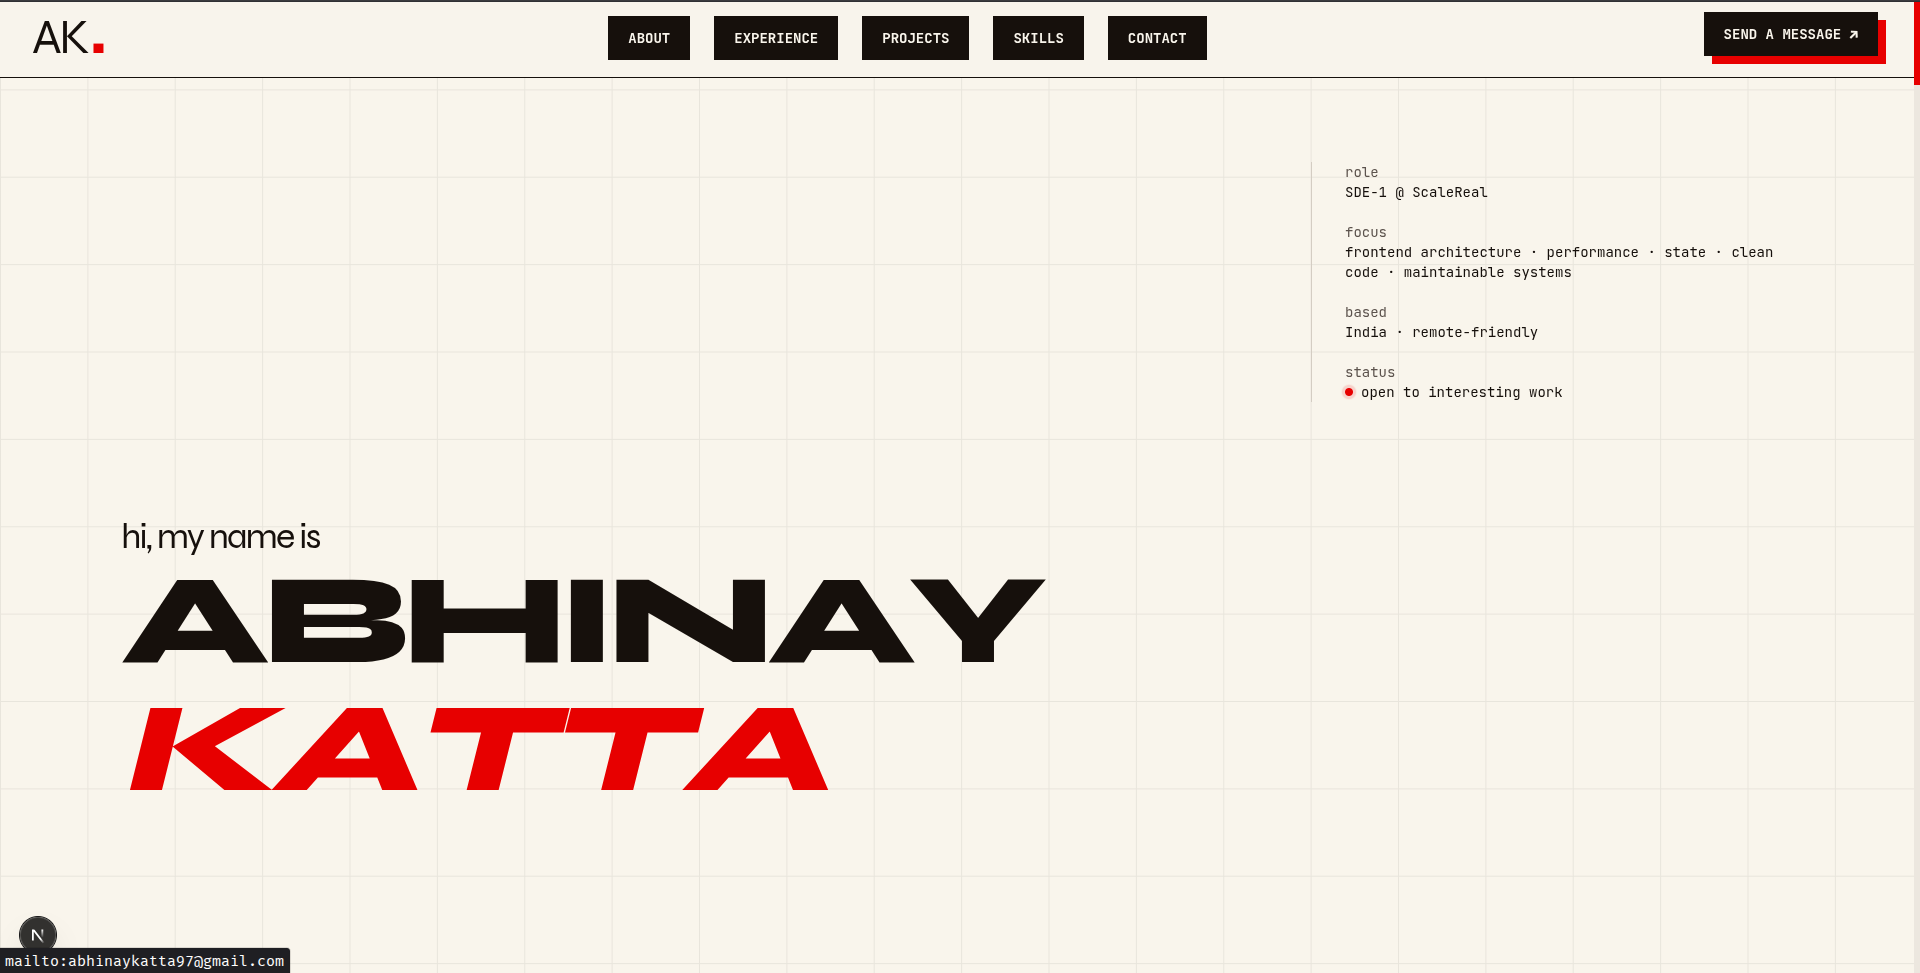
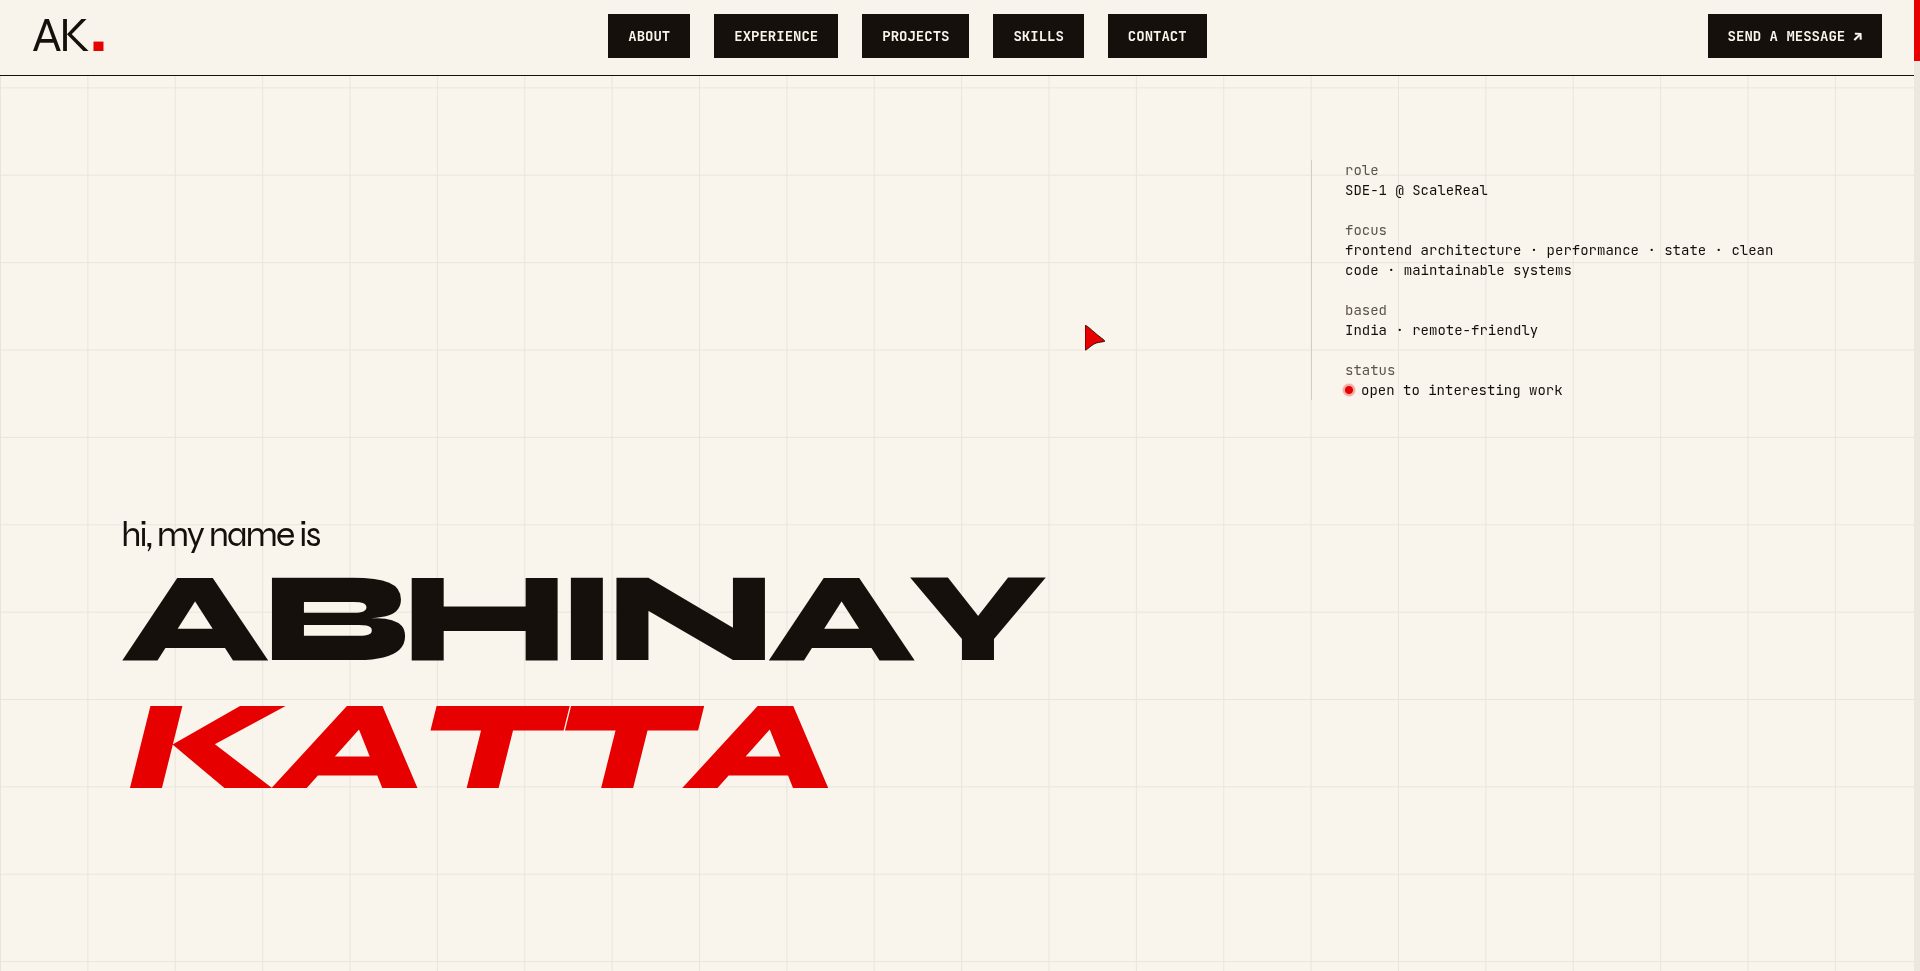
fix: update contact email address in layout and add missing preview image

diff --git a/app/layout.tsx b/app/layout.tsx
@@ -124,7 +124,7 @@ export default function RootLayout({
               jobTitle: "Software Engineer",
               description:
                 "Software engineer specializing in React, Next.js, and frontend development.",
-              email: "abhinaykatta97@email.com",
+              email: "abhinaykatta97@gmail.com",
               image: "https://abhikatta.vercel.app/abhinaykatta.webp",
               knowsAbout: [
                 "React",
